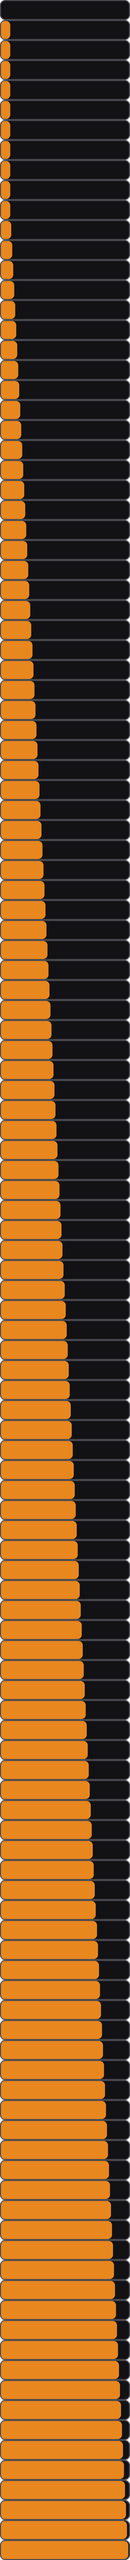
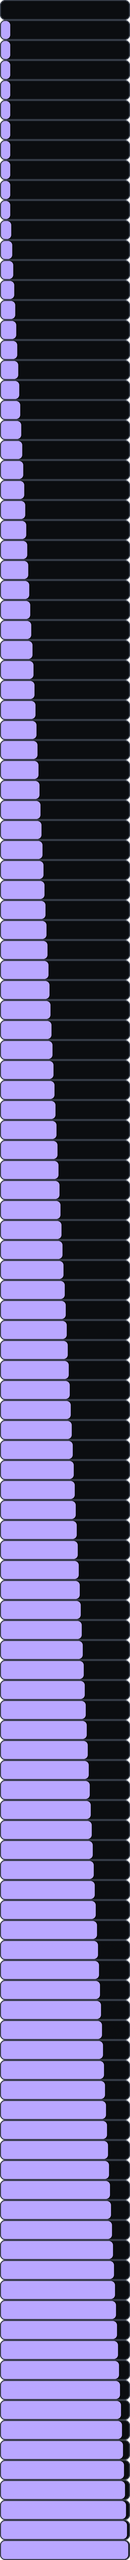
DeathCoast 1.7.1: the Berobreus palette
Claude-Session: https://claude.ai/code/session_0186Jh2iBUBCFtuBbzdcXJhH

diff --git a/tools/gen_art.py b/tools/gen_art.py
@@ -21,8 +21,8 @@ OUT = os.path.join(ROOT, "images", "dc")
 SS = 4                                    # supersampling
 
 def hexc(h, a=255): return (int(h[0:2], 16), int(h[2:4], 16), int(h[4:6], 16), a)
-ACC, ACC_HI, INK, INK_FAINT = hexc("e8871e"), hexc("ffb347"), hexc("f2f0ec"), hexc("8c8a85")
-LINE, DISP_BG, DISC, DISC_EDGE = hexc("3d3d42"), hexc("121214"), hexc("2f2f33"), hexc("4a4a50")
+ACC, ACC_HI, INK, INK_FAINT = hexc("b9a7ff"), hexc("6fd3c7"), hexc("e8e6e1"), hexc("7c808a")
+LINE, DISP_BG, DISC, DISC_EDGE = hexc("2b303a"), hexc("0b0d10"), hexc("1e222b"), hexc("363c48")
 
 def canvas(w, h, bg=(0, 0, 0, 0)): return Image.new("RGBA", (w * SS, h * SS), bg)
 def down(im, w, h): return im.resize((w, h), Image.LANCZOS)
@@ -68,7 +68,7 @@ def panel(name, label, w, h):
     """a panel that sets a group of controls apart (one Q-Link column), its name in the accent colour"""
     from PIL import ImageFont
     im = canvas(w, h); d = ImageDraw.Draw(im)
-    d.rounded_rectangle((0, 0, w * SS - 1, h * SS - 1), 10 * SS, fill=hexc("323236"), outline=hexc("4a4a50"), width=SS)
+    d.rounded_rectangle((0, 0, w * SS - 1, h * SS - 1), 10 * SS, fill=hexc("1e222b"), outline=hexc("363c48"), width=SS)
     try: f = ImageFont.truetype("/usr/share/fonts/opentype/inter/Inter-Regular.otf", 15 * SS)
     except OSError: f = ImageFont.load_default(size=15 * SS)
     d.text((12 * SS, 8 * SS), label, font=f, fill=ACC)
@@ -82,7 +82,7 @@ def bar(w, h, n=128):
         v = i / (n - 1)
         im = canvas(w, h); d = ImageDraw.Draw(im)
         r = 5 * SS
-        d.rounded_rectangle((0, 0, w * SS - 1, h * SS - 1), r, fill=hexc("121214"), outline=hexc("4a4a50"), width=SS)
+        d.rounded_rectangle((0, 0, w * SS - 1, h * SS - 1), r, fill=hexc("0b0d10"), outline=hexc("363c48"), width=SS)
         if v > 0.003:
             x1 = max(2 * r, int((w * SS - 2 * SS) * v))
             d.rounded_rectangle((SS, SS, x1, h * SS - 1 - SS), r - SS, fill=ACC)
@@ -96,16 +96,16 @@ def arrows():
         im = canvas(44, 44); d = ImageDraw.Draw(im)
         c, hw, hh = 22 * SS, 6 * SS, 10 * SS
         pts = [(c + hw, c - hh), (c + hw, c + hh), (c - hw, c)] if side == "prev" else [(c - hw, c - hh), (c - hw, c + hh), (c + hw, c)]
-        d.polygon(pts, fill=hexc("ffb347"))
+        d.polygon(pts, fill=hexc("6fd3c7"))
         im = down(im, 44, 44); im.save(os.path.join(OUT, "arrow_%s.png" % side), optimize=True)
-    Image.new("RGBA", (44, 44), hexc("28282b")).save(os.path.join(OUT, "patch.png"))
+    Image.new("RGBA", (44, 44), hexc("171a20")).save(os.path.join(OUT, "patch.png"))
     print("  arrow_prev.png, arrow_next.png, patch.png")
 
 def wavebox(w, h):
     im = display(w, h, 10); d = ImageDraw.Draw(im)
-    d.line(((10 * SS, h / 2 * SS), ((w - 10) * SS, h / 2 * SS)), fill=hexc("3d3d42", 200), width=SS)
+    d.line(((10 * SS, h / 2 * SS), ((w - 10) * SS, h / 2 * SS)), fill=hexc("2b303a", 200), width=SS)
     for q in (0.25, 0.75):
-        d.line(((10 * SS, (8 + (h - 16) * q) * SS), ((w - 10) * SS, (8 + (h - 16) * q) * SS)), fill=hexc("3d3d42", 90), width=SS)
+        d.line(((10 * SS, (8 + (h - 16) * q) * SS), ((w - 10) * SS, (8 + (h - 16) * q) * SS)), fill=hexc("2b303a", 90), width=SS)
     im = down(im, w, h); im.save(os.path.join(OUT, "wavebox_%dx%d.png" % (w, h)), optimize=True)
     print("  %-26s %dx%d" % ("wavebox_%dx%d.png" % (w, h), w, h))
 
@@ -119,10 +119,10 @@ def fold(w, h):
         x = np.sin(2 * np.pi * ph) * (1 + fo * 7) + sy * 0.8
         y = np.sin(np.pi / 2 * x) if (fo > 0 or sy > 0) else x
         im = display(w, h, 8); d = ImageDraw.Draw(im)
-        d.line(((10 * SS, h / 2 * SS), ((w - 10) * SS, h / 2 * SS)), fill=hexc("3d3d42", 160), width=SS)
+        d.line(((10 * SS, h / 2 * SS), ((w - 10) * SS, h / 2 * SS)), fill=hexc("2b303a", 160), width=SS)
         pts = [((10 + (w - 20) * p) * SS, (h / 2 - (h / 2 - 9) * v) * SS) for p, v in zip(ph, y)]
         glow = canvas(w, h); gd = ImageDraw.Draw(glow)
-        polyline(gd, pts, hexc("e8871e", 130), int(6 * SS))
+        polyline(gd, pts, hexc("b9a7ff", 130), int(6 * SS))
         im.alpha_composite(glow.filter(ImageFilter.GaussianBlur(3 * SS)))
         polyline(d, pts, ACC_HI, int(2.2 * SS))
         frames.append(down(im, w, h))
@@ -180,14 +180,14 @@ def filt(kind, w, h):
         im = display(w, h); d = ImageDraw.Draw(im)
         for g in (100, 1000, 10000):             # faint decade lines
             x = (10 + (w - 20) * math.log(g / 20) / math.log(1000)) * SS
-            d.line(((x, 6 * SS), (x, (h - 6) * SS)), fill=hexc("3d3d42", 120), width=SS)
+            d.line(((x, 6 * SS), (x, (h - 6) * SS)), fill=hexc("2b303a", 120), width=SS)
         y0 = (6 + (h - 12) * top / (top - bot)) * SS
-        d.line(((10 * SS, y0), ((w - 10) * SS, y0)), fill=hexc("3d3d42", 160), width=SS)
+        d.line(((10 * SS, y0), ((w - 10) * SS, y0)), fill=hexc("2b303a", 160), width=SS)
         xs = 10 + (w - 20) * np.log(f / 20) / math.log(1000)
         ys = 6 + (h - 12) * (top - np.clip(db, bot, top)) / (top - bot)
         pts = [(x * SS, y * SS) for x, y in zip(xs, ys)]
         fill = canvas(w, h); fd = ImageDraw.Draw(fill)
-        fd.polygon(pts + [(pts[-1][0], (h - 6) * SS), (pts[0][0], (h - 6) * SS)], fill=hexc("e8871e", 55))
+        fd.polygon(pts + [(pts[-1][0], (h - 6) * SS), (pts[0][0], (h - 6) * SS)], fill=hexc("b9a7ff", 55))
         im.alpha_composite(fill)
         polyline(d, pts, ACC_HI, int(2.2 * SS))
         frames.append(down(im, w, h))
@@ -216,9 +216,9 @@ def env(stage, w, h, n=64):
         pts = [(X(a), Y(b)) for a, b in zip(u, lvl)]
         if stage in ("d", "r"):                   # the generic level, dashed
             for a in np.arange(0, 1, 0.08):
-                d.line(((X(a), Y(mid)), (X(min(1, a + 0.04)), Y(mid))), fill=hexc("8c8a85", 110), width=SS)
+                d.line(((X(a), Y(mid)), (X(min(1, a + 0.04)), Y(mid))), fill=hexc("7c808a", 110), width=SS)
         fill = canvas(w, h); fd = ImageDraw.Draw(fill)
-        fd.polygon(pts + [(X(1), Y(0)), (X(0), Y(0))], fill=hexc("e8871e", 50))
+        fd.polygon(pts + [(X(1), Y(0)), (X(0), Y(0))], fill=hexc("b9a7ff", 50))
         im.alpha_composite(fill)
         polyline(d, pts, ACC_HI, int(2.4 * SS))
         frames.append(down(im, w, h))

diff --git a/tools/gen_layout.py b/tools/gen_layout.py
@@ -12,27 +12,27 @@ Run:  python3 tools/gen_layout.py"""
 import importlib.util, os, re
 here = os.path.dirname(os.path.abspath(__file__)); root = os.path.dirname(here)
 head = """# DeathCoast screen: generated by tools/gen_layout.py -- edit that, not this file.
-theme_accent=e8871e
-theme_accent_hi=ffb347
-theme_bg=1b1b1d
-theme_box=28282b
-theme_display_bezel=0a0a0b
-theme_display_bg=121214
-theme_display_cell=1b1b1d
-theme_display_ink=ffb347
-theme_display_off=4a3a24
-theme_ink=f2f0ec
-theme_ink_dim=c9c6bf
-theme_ink_faint=8c8a85
-theme_knob_dot=ffb347
-theme_knob_face=f2f0ec
-theme_knob_ring=3a3a3f
-theme_lcd=101011
-theme_line=3d3d42
-theme_panel=28282b
-theme_seg_active=ffb347
-theme_seg_active_tx=1b1b1d
-theme_seg_inactive=3a3126
+theme_accent=b9a7ff
+theme_accent_hi=6fd3c7
+theme_bg=0e1014
+theme_box=171a20
+theme_display_bezel=08090c
+theme_display_bg=0b0d10
+theme_display_cell=0e1014
+theme_display_ink=6fd3c7
+theme_display_off=2a4440
+theme_ink=e8e6e1
+theme_ink_dim=b4b6bc
+theme_ink_faint=7c808a
+theme_knob_dot=6fd3c7
+theme_knob_face=e8e6e1
+theme_knob_ring=2b303a
+theme_lcd=0b0d10
+theme_line=2b303a
+theme_panel=171a20
+theme_seg_active=6fd3c7
+theme_seg_active_tx=0e1014
+theme_seg_inactive=232836
 art_css=deathcoast.css
 toggle_img=images/btn_off.svg
 toggle_img_on=images/btn_on.svg

diff --git a/tools/gen_tables.py b/tools/gen_tables.py
@@ -58,7 +58,7 @@ def draw(table, w, h):
         ox, oy = 10 + k * dx, h / 2 + depth * dy / 2 - k * dy
         pts = [((ox + pw * i / 109) * A.SS, (oy - ph * fr[x]) * A.SS) for i, x in enumerate(xs)]
         a = int(110 + 90 * (1 - k / depth))                # even: the POSITION overlay marks the current one
-        A.polyline(d, pts, A.hexc("e8871e", a), int(1.4 * A.SS))
+        A.polyline(d, pts, A.hexc("b9a7ff", a), int(1.4 * A.SS))
     return A.down(im, w, h)
 
 def posmark(w, h, n=64):
@@ -71,7 +71,7 @@ def posmark(w, h, n=64):
         ox, oy = 10 + k * DX, h / 2 + DEPTH * DY / 2 - k * DY
         im = A.canvas(w, h); d = ImageDraw.Draw(im)
         glow = A.canvas(w, h); gd = ImageDraw.Draw(glow)
-        gd.line(((ox * A.SS, oy * A.SS), ((ox + pw) * A.SS, oy * A.SS)), fill=A.hexc("ffb347", 150), width=int(5 * A.SS))
+        gd.line(((ox * A.SS, oy * A.SS), ((ox + pw) * A.SS, oy * A.SS)), fill=A.hexc("6fd3c7", 150), width=int(5 * A.SS))
         im.alpha_composite(glow.filter(__import__("PIL.ImageFilter", fromlist=["x"]).GaussianBlur(3 * A.SS)))
         d.line(((ox * A.SS, oy * A.SS), ((ox + pw) * A.SS, oy * A.SS)), fill=A.ACC_HI, width=int(1.6 * A.SS))
         r = 3.2 * A.SS

diff --git a/tools/gen_params.py b/tools/gen_params.py
@@ -10,7 +10,7 @@ Run:  python3 tools/gen_params.py"""
 import json, os, re
 
 ROOT = os.path.dirname(os.path.dirname(os.path.abspath(__file__)))
-VERSION = "1.7.0"
+VERSION = "1.7.1"
 SLOTS = 4
 KNOBS = 14
 

diff --git a/src/dsp/params.h b/src/dsp/params.h
@@ -2,7 +2,7 @@
 #ifndef DEATHCOAST_PARAMS_H
 #define DEATHCOAST_PARAMS_H
 
-#define DC_VERSION "1.7.0"
+#define DC_VERSION "1.7.1"
 #define DC_PARAM_COUNT 260
 #define DC_SLOTS 4
 #define DC_KNOBS 14

diff --git a/CHANGES.md b/CHANGES.md
@@ -2,6 +2,11 @@
 
 NorthWest is called DeathCoast from 1.7 (after the Costa da Morte). The entries below 1.7 keep the old name.
 
+## DeathCoast 1.7.1
+
+- Colours: the Berobreus palette (blue-black #0E1014, panels #171A20, lilac #B9A7FF on knobs, sliders and rules,
+  turquoise #6FD3C7 on values, arrows and curves, text #E8E6E1). Sound and parameters as 1.7.
+
 ## DeathCoast 1.7
 
 - OVERSAMPLING: OFF, AUTO (default), ON. AUTO runs a machine at twice the rate only while its sound needs it (fold,
